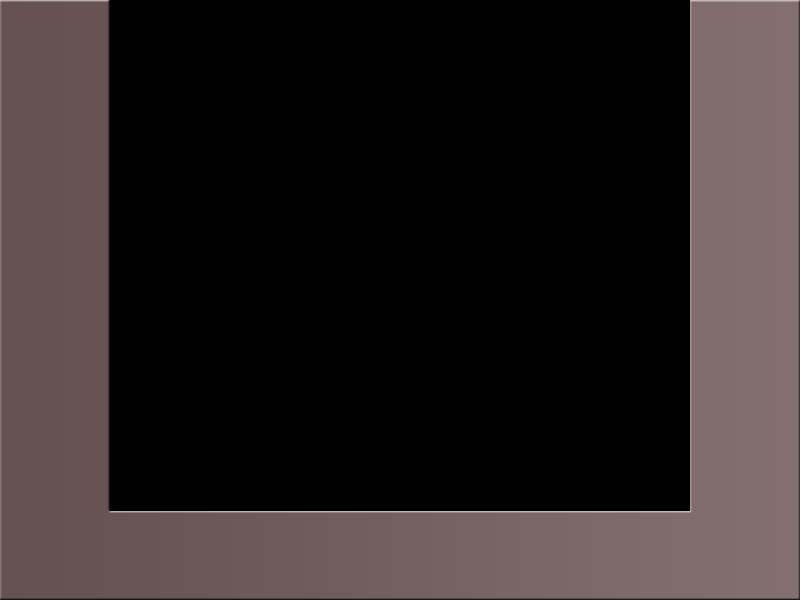
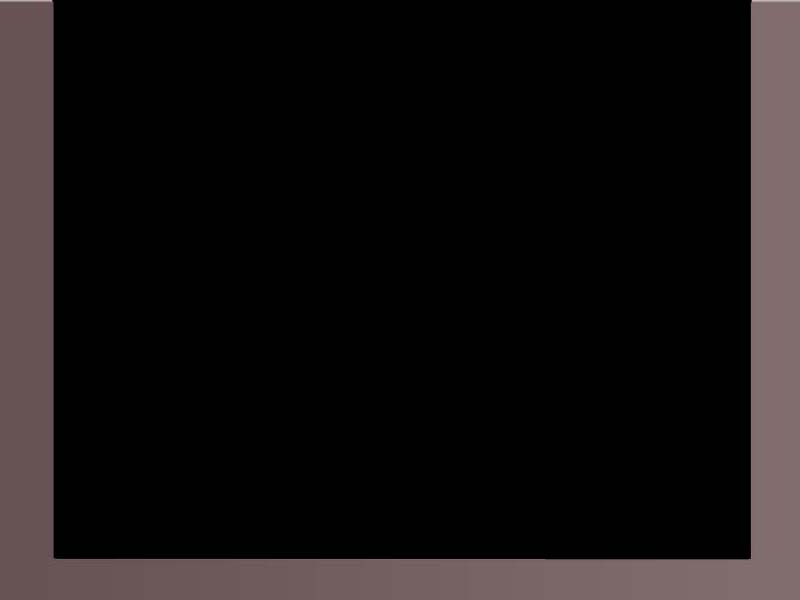
Added colors to map. Enlarged map size for experimental reasons. Modified HUD picture

Changed region(s): [[0.0625, 0.0, 0.9375, 0.96], [0.0, 0.99, 1.0, 1.0]]

diff --git a/src/EventHandler.c b/src/EventHandler.c
@@ -49,11 +49,11 @@ int MF_Event_Handler(void)
                         break;
                     case SDLK_DOWN:
                         cameray += 5;
-                        cameraz -= 5;
+                        //cameraz -= 5;
                         break;
                     case SDLK_UP:
                         cameray -= 5;
-                        cameraz += 5;
+                       // cameraz += 5;
                         break;
                     default:
                     break;

diff --git a/src/MapRoutines.h b/src/MapRoutines.h
@@ -7,7 +7,7 @@
 #define MAP_H
 
 #define SEED 0                          //Initial seed value of the corners of the map
-#define MAP_SIZE 65                       //Size of the map
+#define MAP_SIZE 129                       //Size of the map
 #define POINT(x,y) (MAP_SIZE*(x)+(y))   //Macro for mimicing the behaviour of a 2-dimensional array in 1-dimensional array.
 
 typedef struct{
